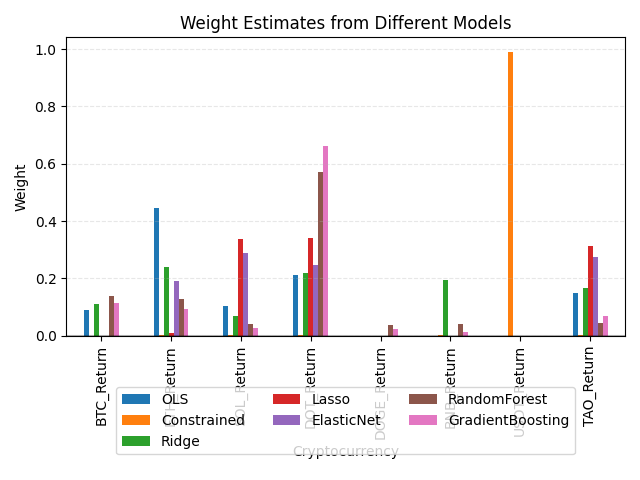
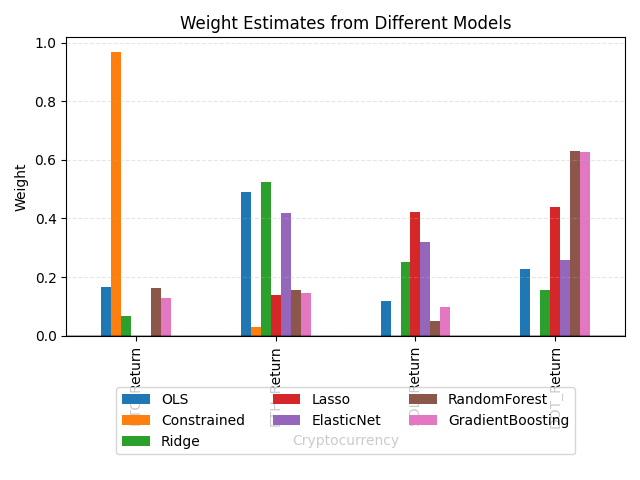
Update Weight Analysis Report with Refined Asset Selection and Performance Metrics
- Regenerate weight analysis report with updated ensemble weights
- Modify asset selection to focus on DOT, ETH, BTC, and SOL
- Update tracking error and model performance metrics
- Regenerate analysis visualization images
- Refine asset selection UI with updated toggle button styles

diff --git a/src/pages/Predictions.jsx b/src/pages/Predictions.jsx
@@ -725,8 +725,8 @@ const Predictions = () => {
                       onClick={() => toggleAll(true)}
                       className={secondaryButtonStyles}
                     >
-                      <div className="w-5 h-5 border rounded flex items-center justify-center mr-2 bg-white">
-                        <Check className="w-3.5 h-3.5 text-purple-600 font-bold" strokeWidth={3} />
+                      <div className="w-5 h-5 border rounded flex items-center justify-center mr-2 bg-purple-600 border-purple-600">
+                        <span className="text-white text-base font-bold">✓</span>
                       </div>
                       <span>Select All</span>
                     </button>
@@ -892,8 +892,8 @@ const Predictions = () => {
                                   className={`${toggleButtonStyles} ${
                                     isSelected
                                       ? theme === 'dark'
-                                        ? 'bg-white border-purple-600 ring-2 ring-purple-400 ring-opacity-50'
-                                        : 'bg-white border-purple-700 ring-2 ring-purple-500 ring-opacity-50'
+                                        ? 'bg-purple-600 border-purple-600 ring-2 ring-purple-400 ring-opacity-50'
+                                        : 'bg-purple-600 border-purple-600 ring-2 ring-purple-500 ring-opacity-50'
                                       : theme === 'dark'
                                       ? 'bg-transparent border-gray-600'
                                       : 'bg-transparent border-gray-300'
@@ -901,7 +901,7 @@ const Predictions = () => {
                                   aria-label={isSelected ? "Deselect asset" : "Select asset"}
                                 >
                                   {isSelected && (
-                                    <Check className="w-5 h-5 text-purple-600 font-bold" strokeWidth={3} />
+                                    <span className="text-white text-xl font-bold">✓</span>
                                   )}
                                 </button>
                                 <div className="ml-1">
